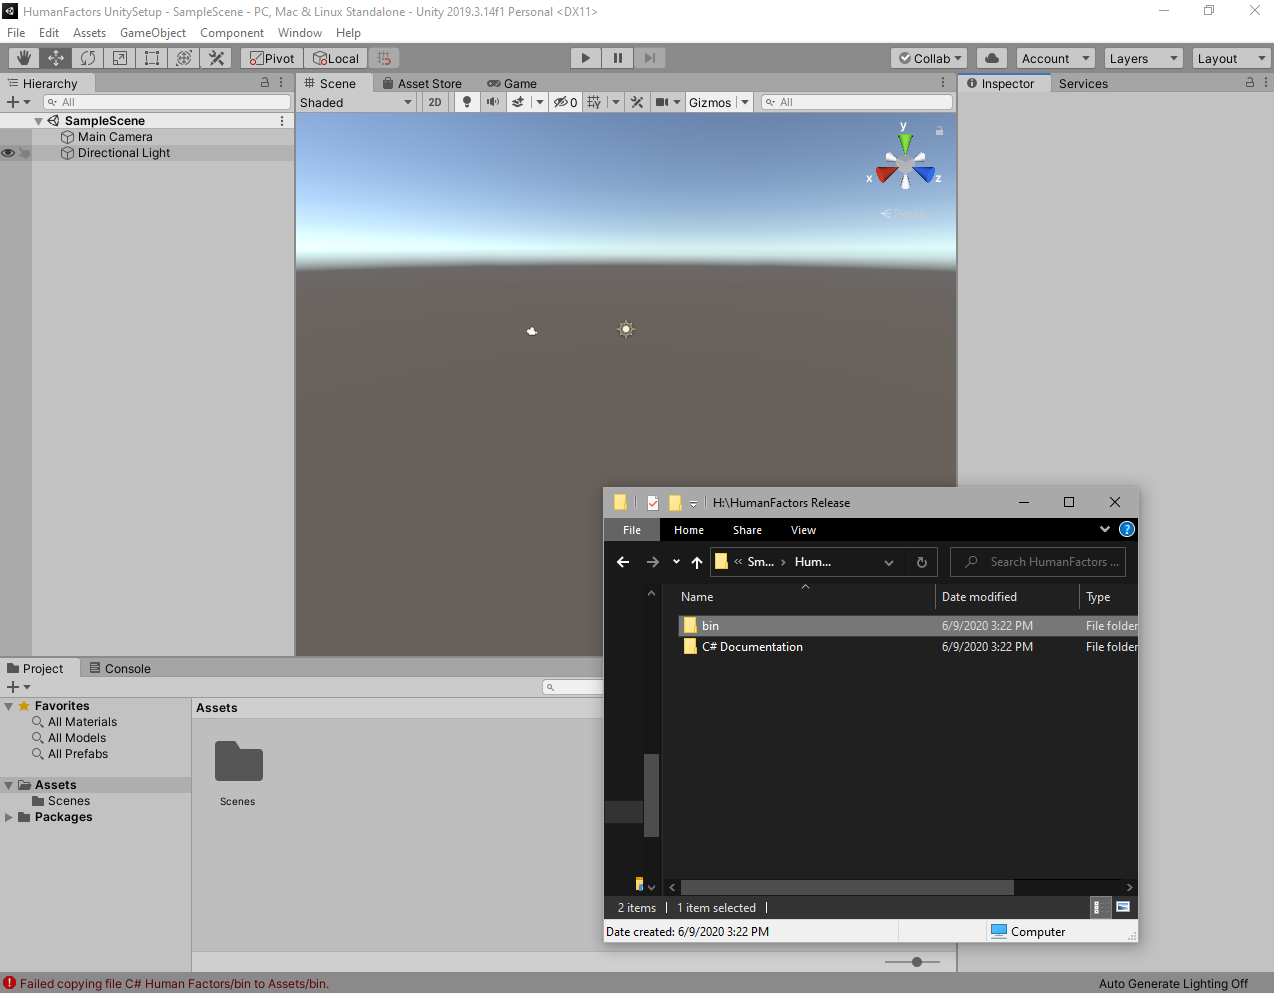
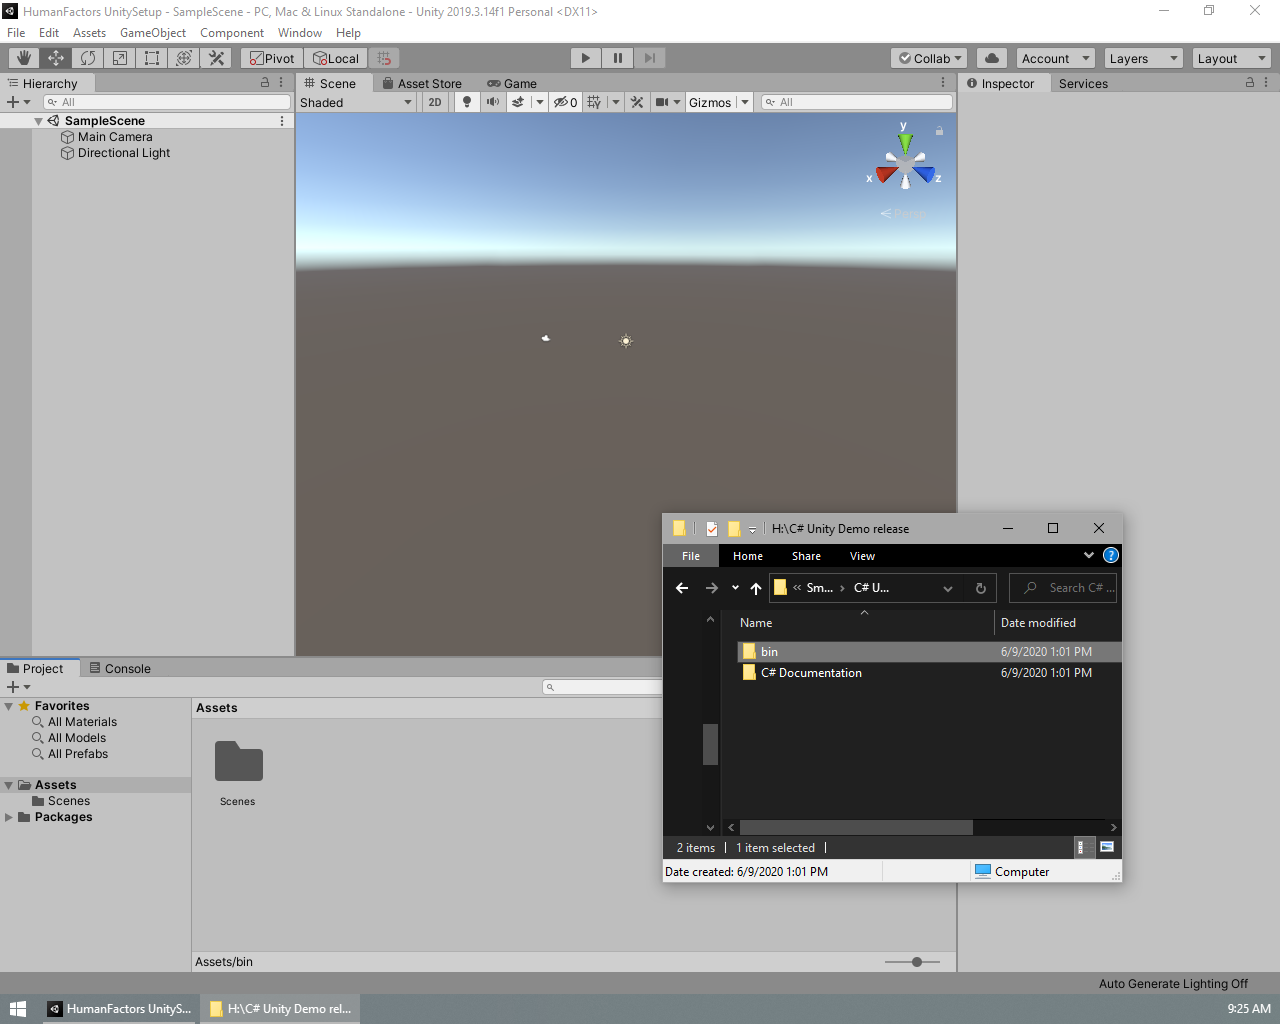
Unity Project Setup Guide revision 1
- Include contents of C# Release
- Show picture of blank NewBehavior.cs
- Add Visual Studio to the prerequsites
- Show Windows Taskbar in Drag and Drop screenshot
- List expected and tested versions of unity

Changed region(s): [[0.0, 0.0, 1.0, 1.0], [0.551, 0.6868, 0.5816, 0.7492]]

diff --git a/docs/C# Documentation/markdown/UnityProjectSetup.md b/docs/C# Documentation/markdown/UnityProjectSetup.md
@@ -6,8 +6,25 @@
 
 ### Prerequisites
 
-- An installation of [Unity](https://unity3d.com/get-unity/download) (Latest version preferred). This example will use the Unity hub, but stand alone versions of unity are also applicable.
-- A copy of the HumanFactors release built with support for C#.
+- An installation of [Unity](https://unity3d.com/get-unity/download). This project has been tested with Unity 2019.3f, but should work from 2018.3 on. 
+- A copy of the HumanFactors release built with support for C#. The `bin` folder should contain the following files:
+
+```
+1. embree3.dll
+2. HumanFactors.dll
+3. HumanFactorsCSharp.dll
+4. Microsoft.VisualStudio.QualityTools.UnitTestFramework.dll
+5. msvcp140.dll
+6. System.Buffers.dll
+7. System.Memory.dll
+8. System.Runtime.CompilerServices.Unsafe.dll
+9. tbb.dll
+10. vcomp140.dll
+11. vcruntime140.dll
+12. vcruntime140_1.dll
+```
+
+- An installation of Visual Studio with Unity integration. Instructions for installing Visual Studio in Unity are available [here](https://docs.microsoft.com/en-us/visualstudio/cross-platform/getting-started-with-visual-studio-tools-for-unity?view=vs-2019).
   
 
 ## Creating a new project
@@ -24,6 +41,7 @@ Upon completion you should be greeted by an empty unity scene.
 ![Empty Unity Scene](../images/blank_unity_scene.PNG)
 
 ## Importing The Human Factors Library
+
 Now that the project is set up, we need to place the binaries for HumanFactors in the assets folder so Unity can see and interface with them. Unzip the HumanFactors release package(Don't try to drag from a zipped folder you will get an error), then drag the `bin` folder into the assets window. If you don't see the assets window, then you can click the assets folder on the left side directly under the project tab. 
 
 ![Moving the bin folder into the assets directory](../images/bin_to_assets.png)
@@ -32,7 +50,11 @@ To verify that the installation is working, we're going to create a small script
 
 !["Creating a new C# script"](../images/create_new_script.png)
 
-Double click on the newly created script and visual studio should open up (or mono-develop if you don't have visual studio installed). In Visual Studio, navigate to the *Solution Explorer*, and expand the drop downs for your solution, Assembly-C-Sharp, and References. If everything was done correctly, you should see HumanFactors C# under the references for your project.
+Double click on the newly created script to open visual studio. If Mono-Develop appears instead then you do not have visual studio support for unity, and can follow the instructions in prerequisites to install it.
+
+!["Double Click On Script"](../images/double_click_on_script.png)
+
+ In Visual Studio, navigate to the *Solution Explorer*, and expand the drop downs for your solution, Assembly-C-Sharp, and References. If everything was done correctly, you should see HumanFactors C# under the references for your project.
 
 !["HumanFactors referenced by your project"](../images/visual_studio_human_factors_reference.png)
 
